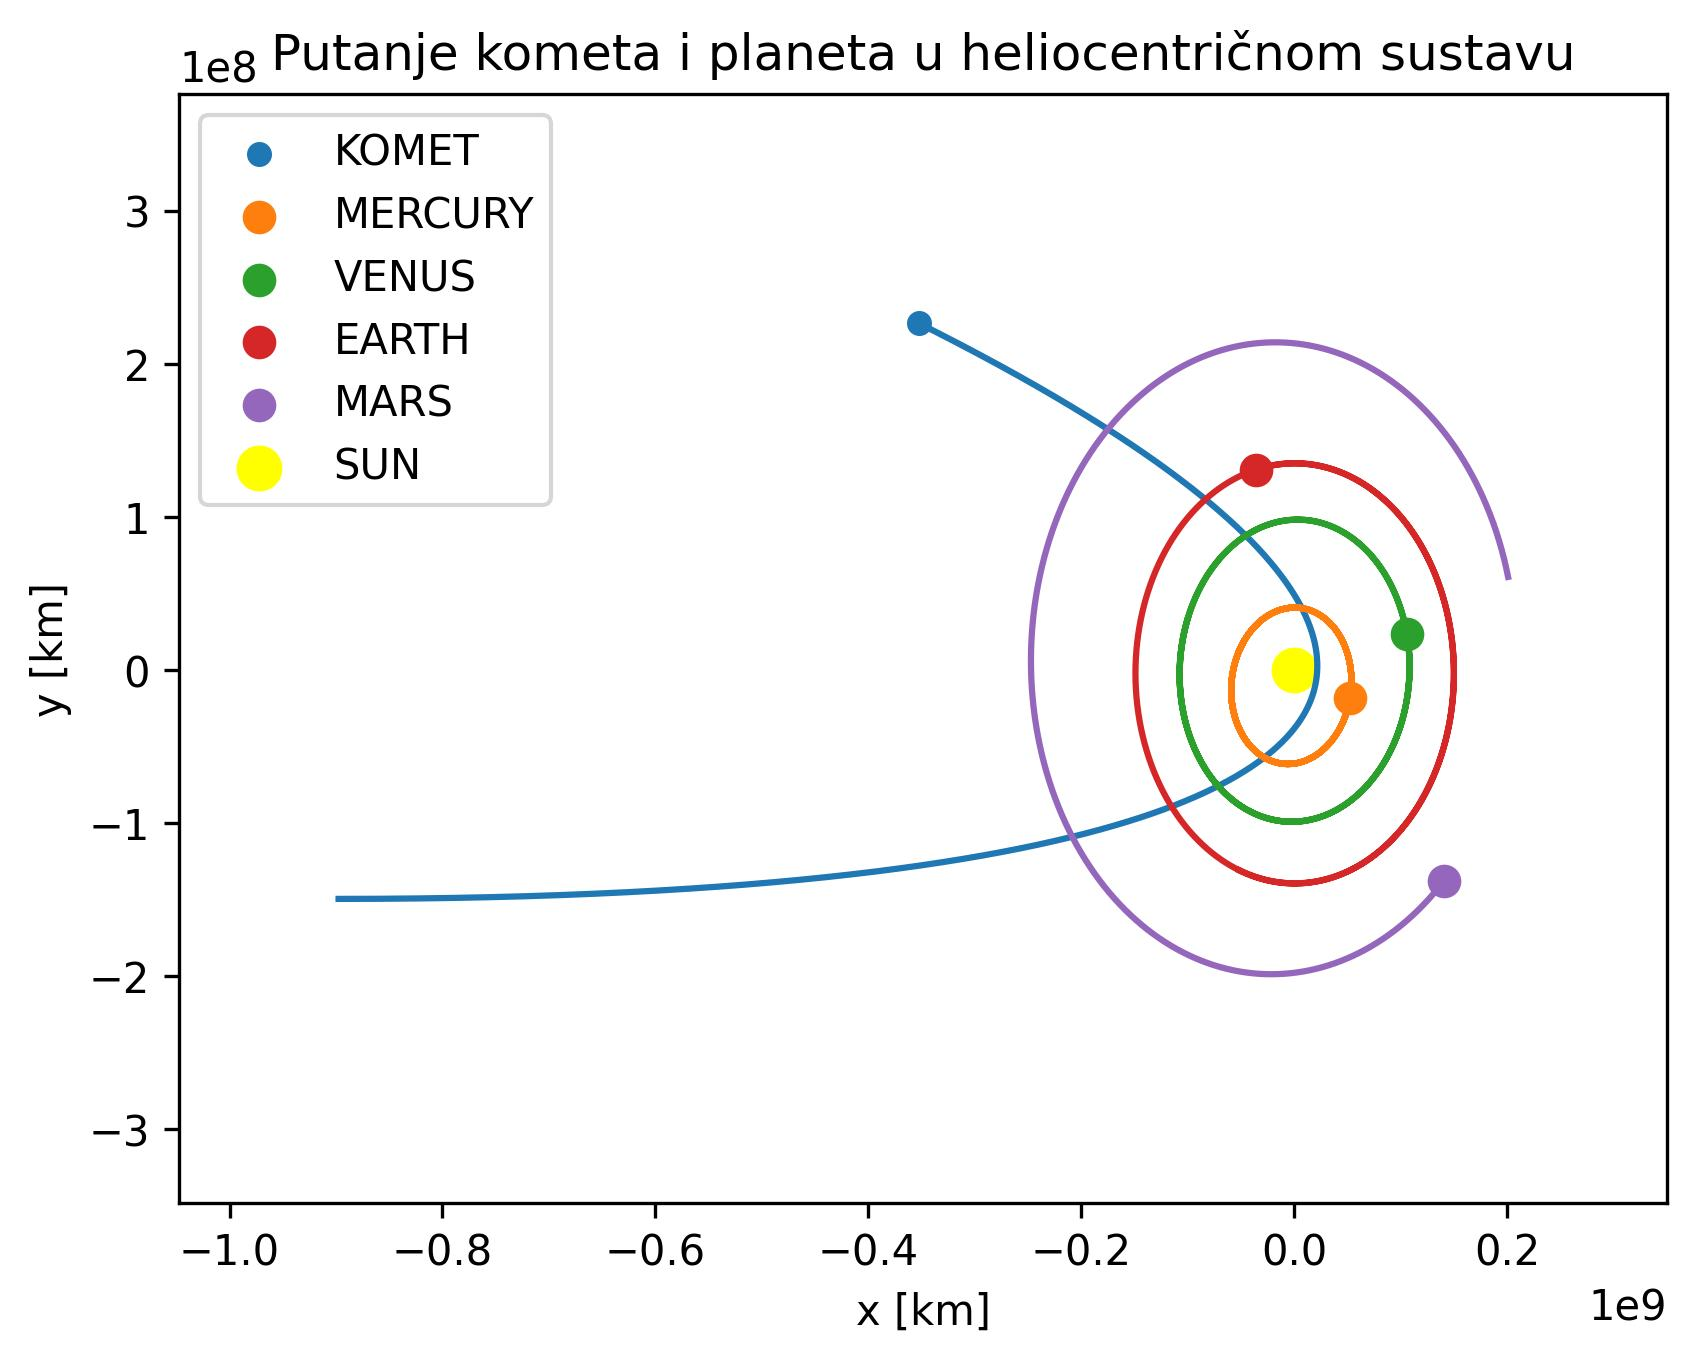
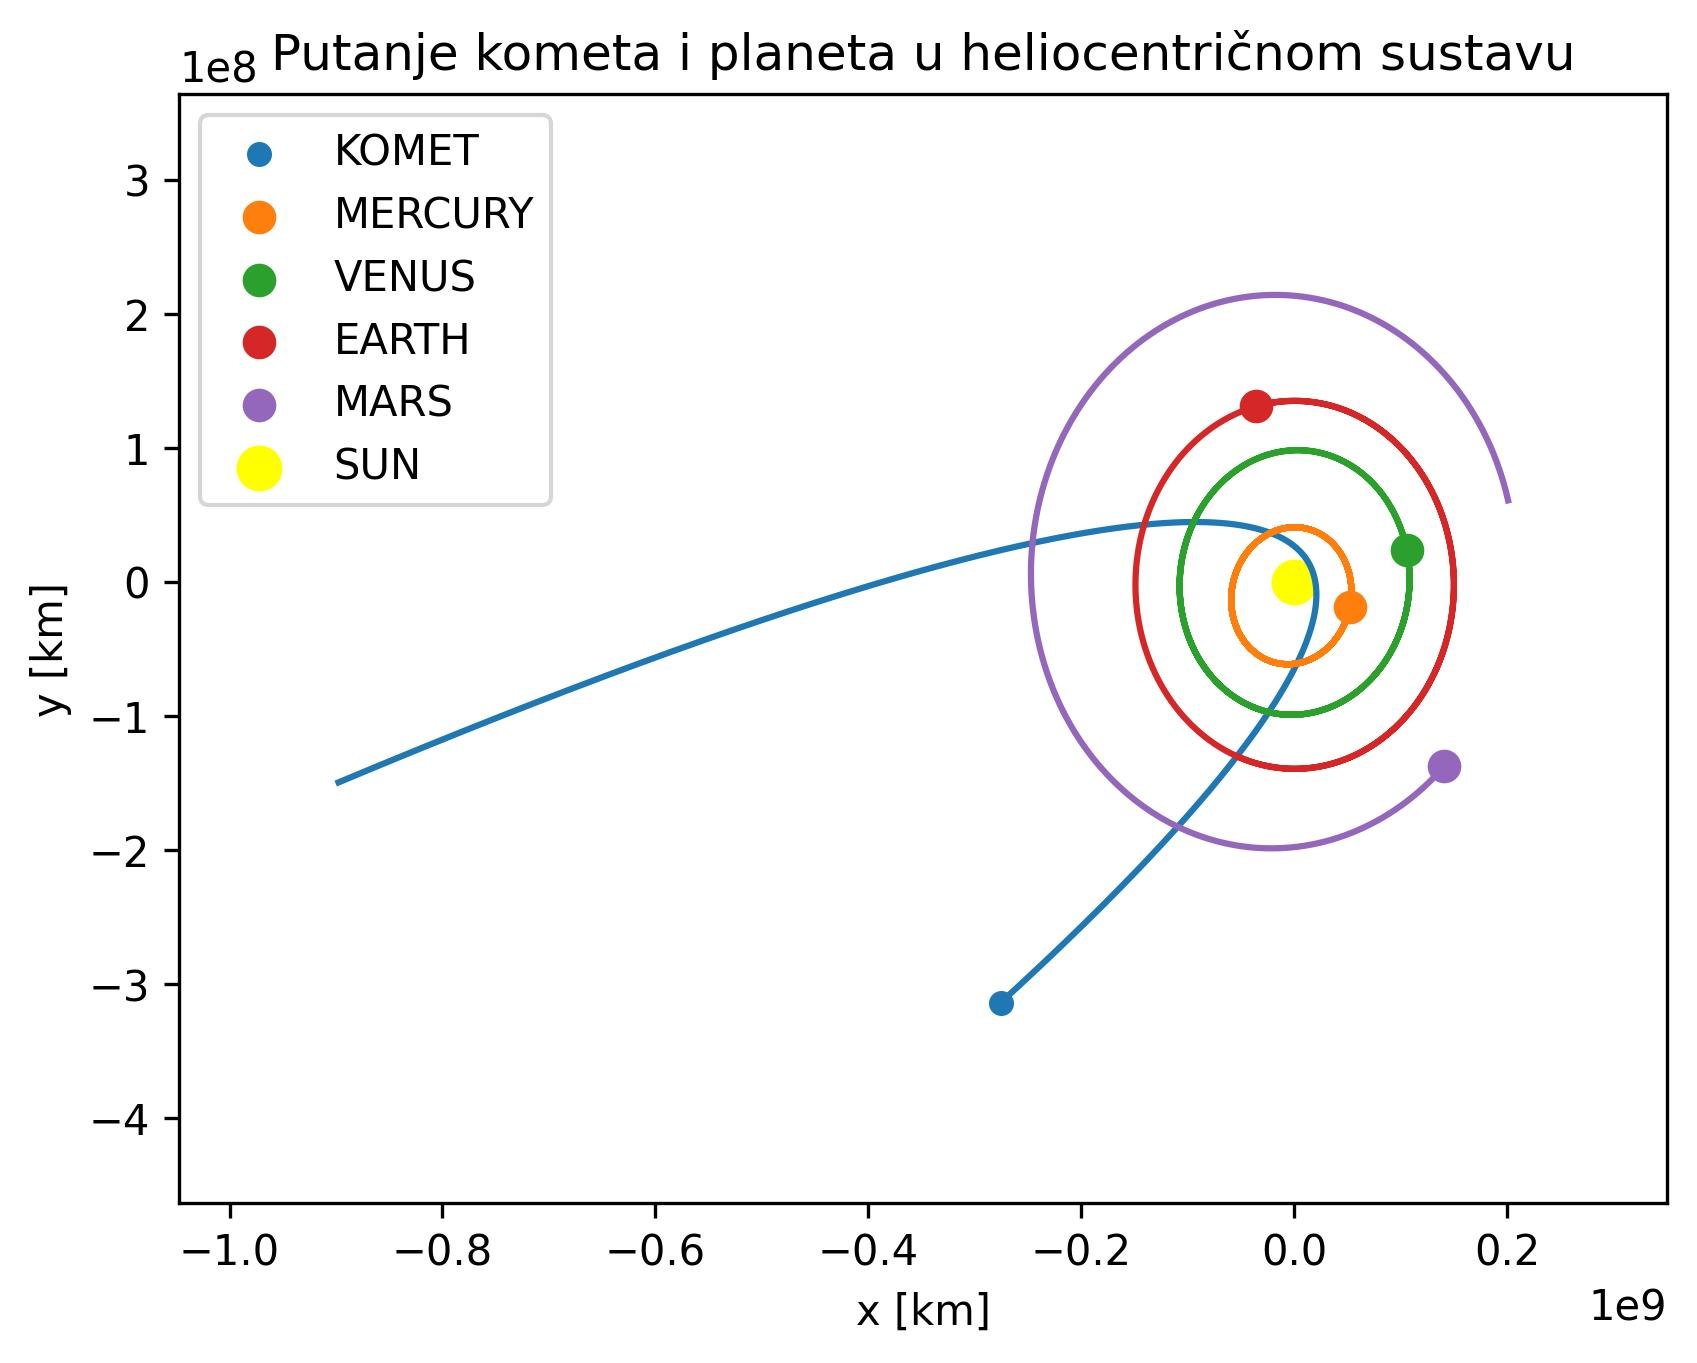
Seminar

diff --git a/Seminar/seminar_1.py b/Seminar/seminar_1.py
@@ -32,8 +32,8 @@ x0_komet =  -6*AU    #(u km)
 y0_komet =  -1*AU    #(u km)
 z0_komet =  0        #(u km)
 
-vx0_komet = 16     #(u km/s)
-vy0_komet = 0      #(u km/s)
+vx0_komet = 15     #(u km/s)
+vy0_komet = 5      #(u km/s)
 vz0_komet = 0      #(u km/s)
 
 m_komet = 1.0e14     #(u kg)
